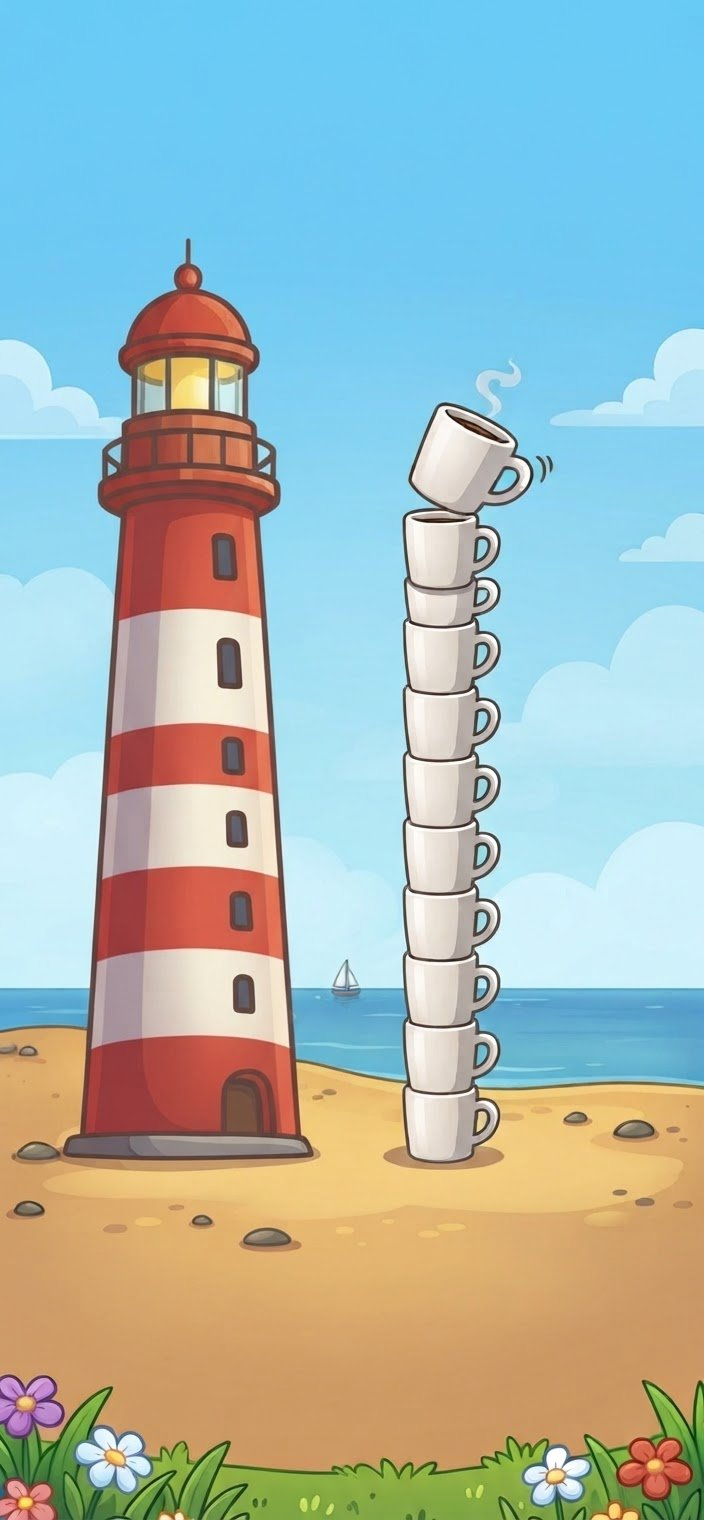
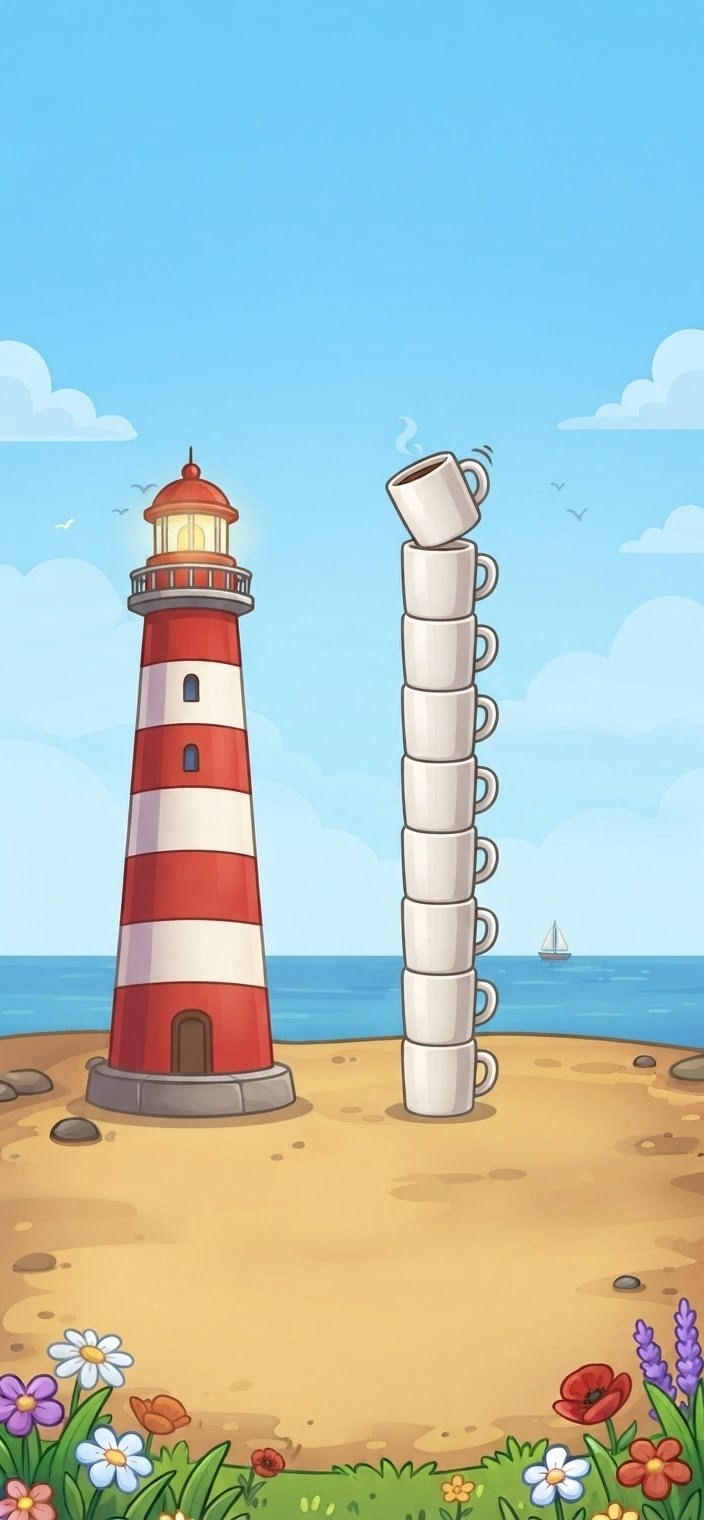
Home screen: add regenerated lighthouse and watermelon scenes to rotation
Claude-Session: https://claude.ai/code/session_01LfmF5cxUUBcpb9MQqZTHNz

diff --git a/scripts/sync-www.js b/scripts/sync-www.js
@@ -8,7 +8,7 @@ const path = require("path");
 const ROOT = path.join(__dirname, "..");
 const WWW = path.join(ROOT, "www");
 
-const FILES = ["index.html", "manifest.json", "sw.js", "privacy.html", "icon-192.png", "icon-512.png", "home-bg.jpg", "home-bg-2.jpg", "home-bg-3.jpg", "home-sunflower.jpg", "home-corgi.jpg", "home-cactus.jpg", "home-penguin.jpg", "home-lighthouse.jpg"];
+const FILES = ["index.html", "manifest.json", "sw.js", "privacy.html", "icon-192.png", "icon-512.png", "home-bg.jpg", "home-bg-2.jpg", "home-bg-3.jpg", "home-sunflower.jpg", "home-corgi.jpg", "home-cactus.jpg", "home-penguin.jpg", "home-lighthouse.jpg", "home-watermelon.jpg"];
 const DIRS = ["icons", "avatars", "sfx", "items", "anim", "backgrounds"];
 
 function copyDir(src, dest) {

diff --git a/index.html b/index.html
@@ -12,7 +12,7 @@
 <script>
 /* Home screen pictures rotate: a different one each time Home loads (never the same twice in a row). */
 (function () {
-  var L = ["home-sunflower.jpg", "home-corgi.jpg", "home-cactus.jpg", "home-penguin.jpg"], i = 0;
+  var L = ["home-sunflower.jpg", "home-corgi.jpg", "home-cactus.jpg", "home-penguin.jpg", "home-lighthouse.jpg", "home-watermelon.jpg"], i = 0;
   try {
     var last = +localStorage.getItem("mg_homeBg");
     i = Math.floor(Math.random() * L.length);
